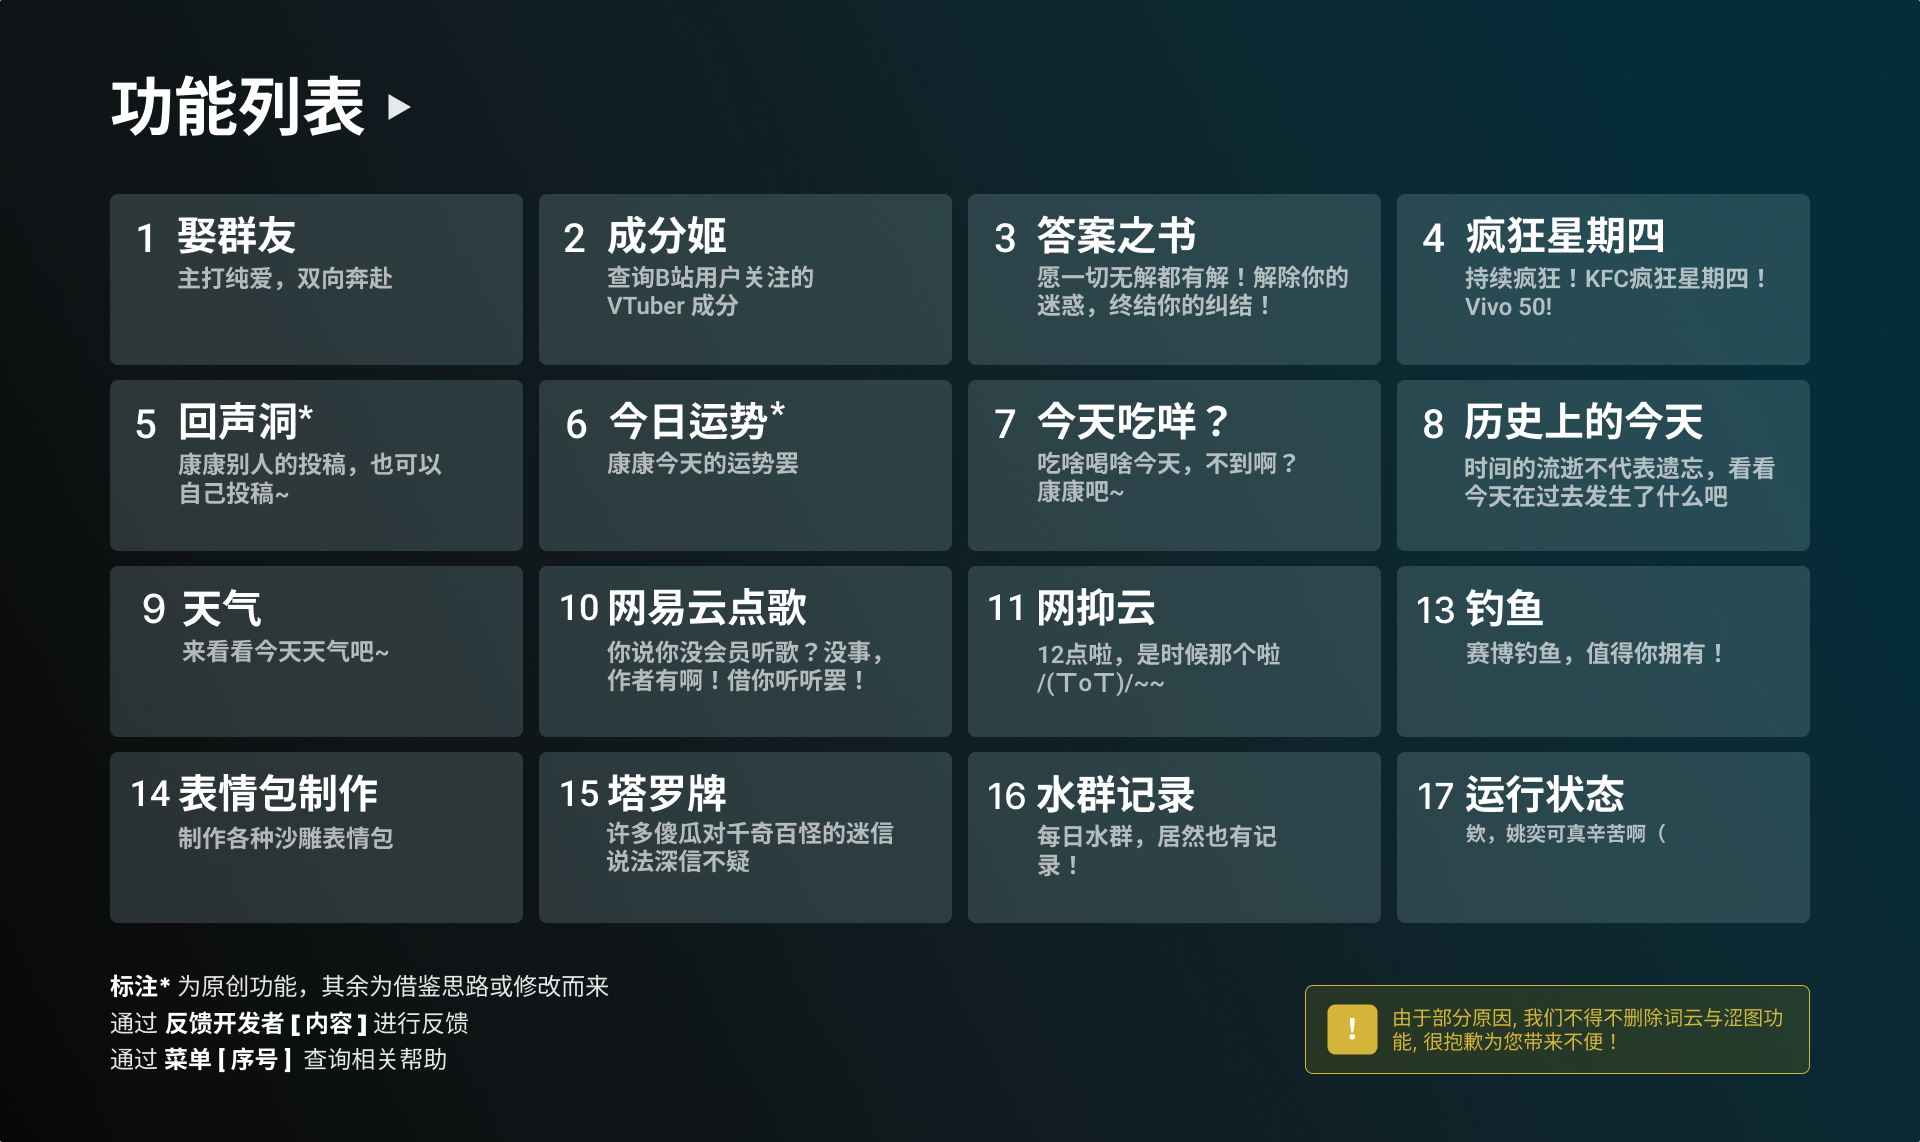
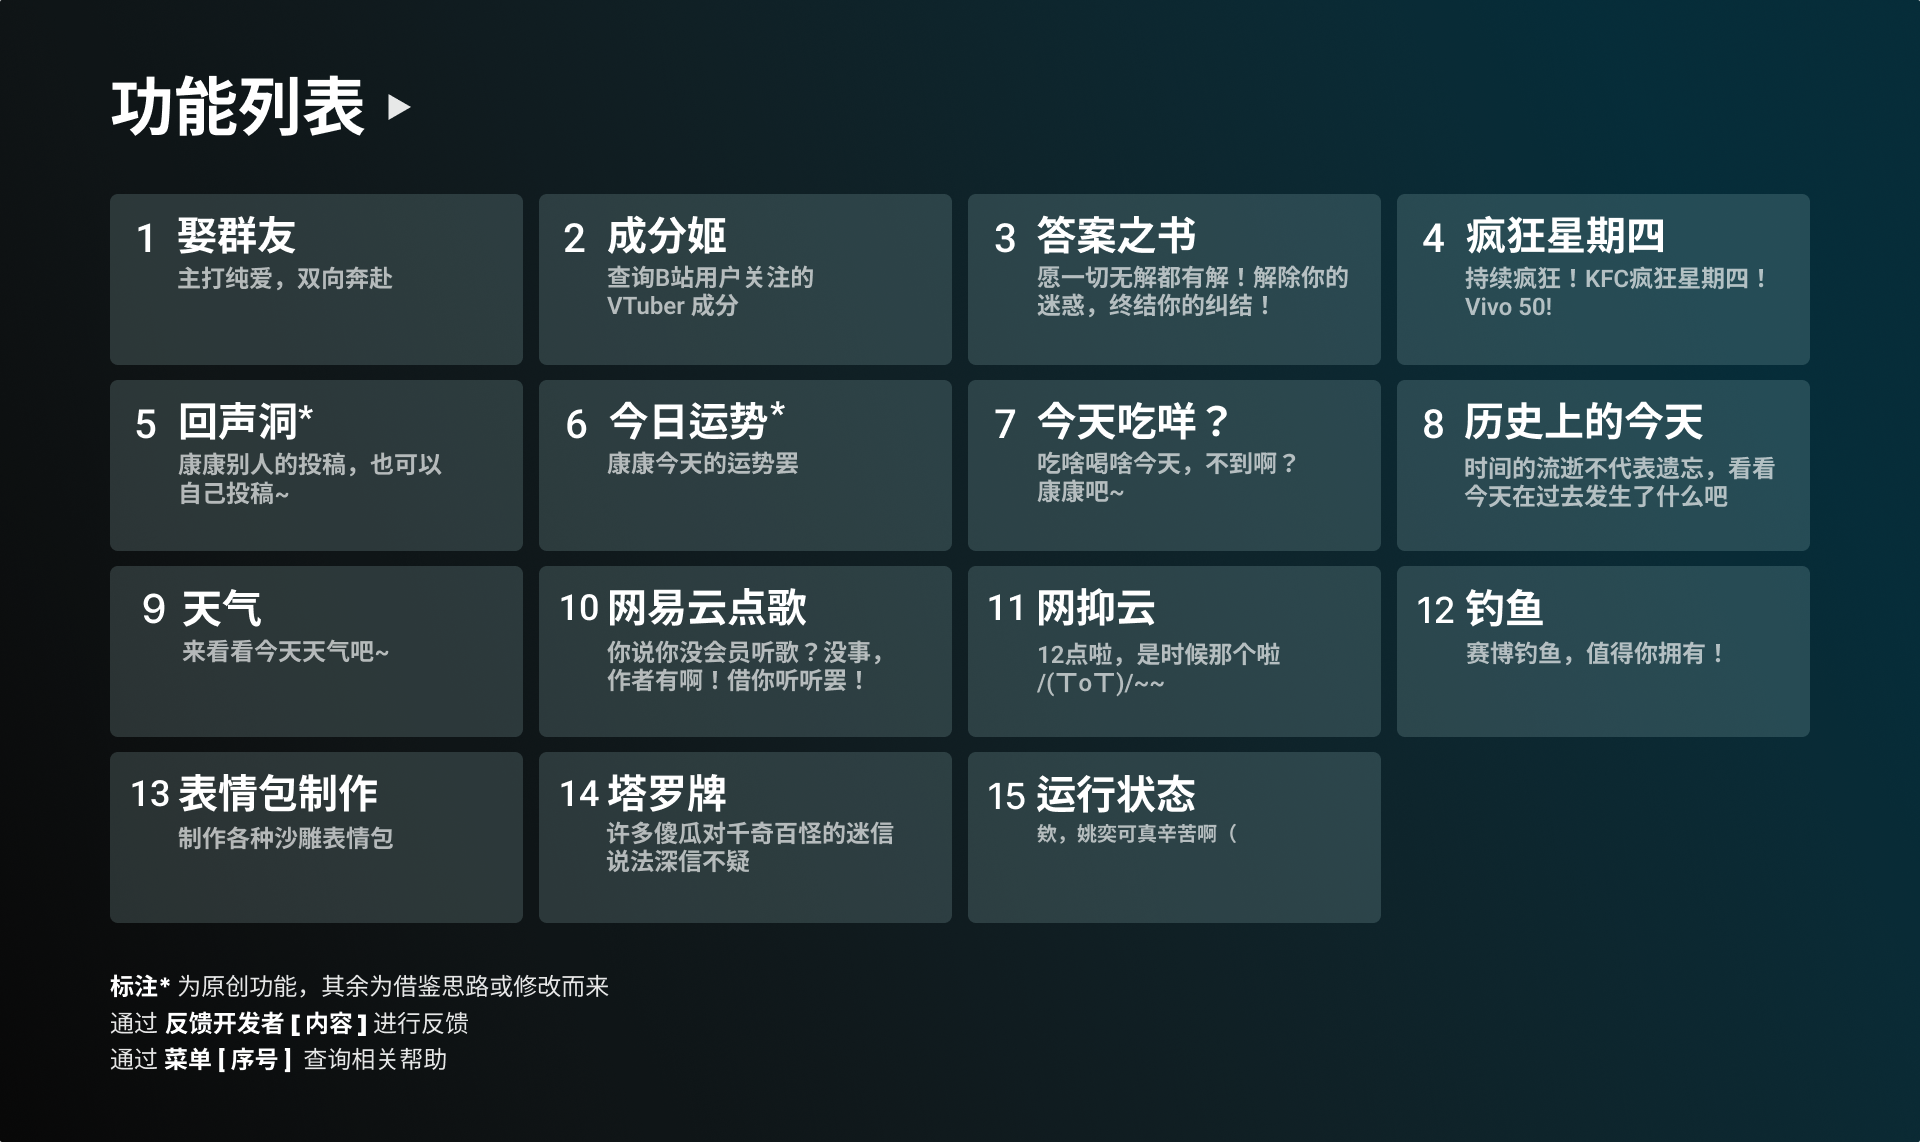
⚡ 移除水群记录功能（问卷调查）

diff --git a/bot.py b/bot.py
@@ -17,10 +17,6 @@ def default_filter(record: "Record"):
     log_level = record["extra"].get("nonebot_log_level", "INFO")
     levelno = logger.level(log_level).no if isinstance(log_level, str) else log_level
 
-    # 过滤掉 module 为 src.plugins.chatcout 的日志
-    if "src.plugins.chatcout" in record["message"]:
-        return False
-
     return record["level"].no >= levelno
 
 
@@ -46,9 +42,15 @@ driver.register_adapter(ONEBOT_V11Adapter)
 
 
 nonebot.load_from_toml("pyproject.toml")
+from async_lru import alru_cache
 from nonebot.message import event_preprocessor
 
 from U1.database import Channel
+
+
+@alru_cache(maxsize=128)
+async def get_channel(group_id: str):
+    return await Channel.get_or_none(guildId=group_id)
 
 
 @event_preprocessor
@@ -62,11 +64,11 @@ async def _(bot: Bot, event: GroupMessageEvent):
     bot_qqid = bot.self_id
     if event.to_me:
         return
-    channel = await Channel.get_or_none(guildId=str(event.group_id))
+    channel = await get_channel(str(event.group_id))
     if channel is None:
         attempts = 0
         while attempts < 3:
-            channel = await Channel.get_or_none(guildId=str(event.group_id))
+            channel = await get_channel(str(event.group_id))
             if channel is not None:
                 break  # 重试直到找到频道
             attempts += 1
